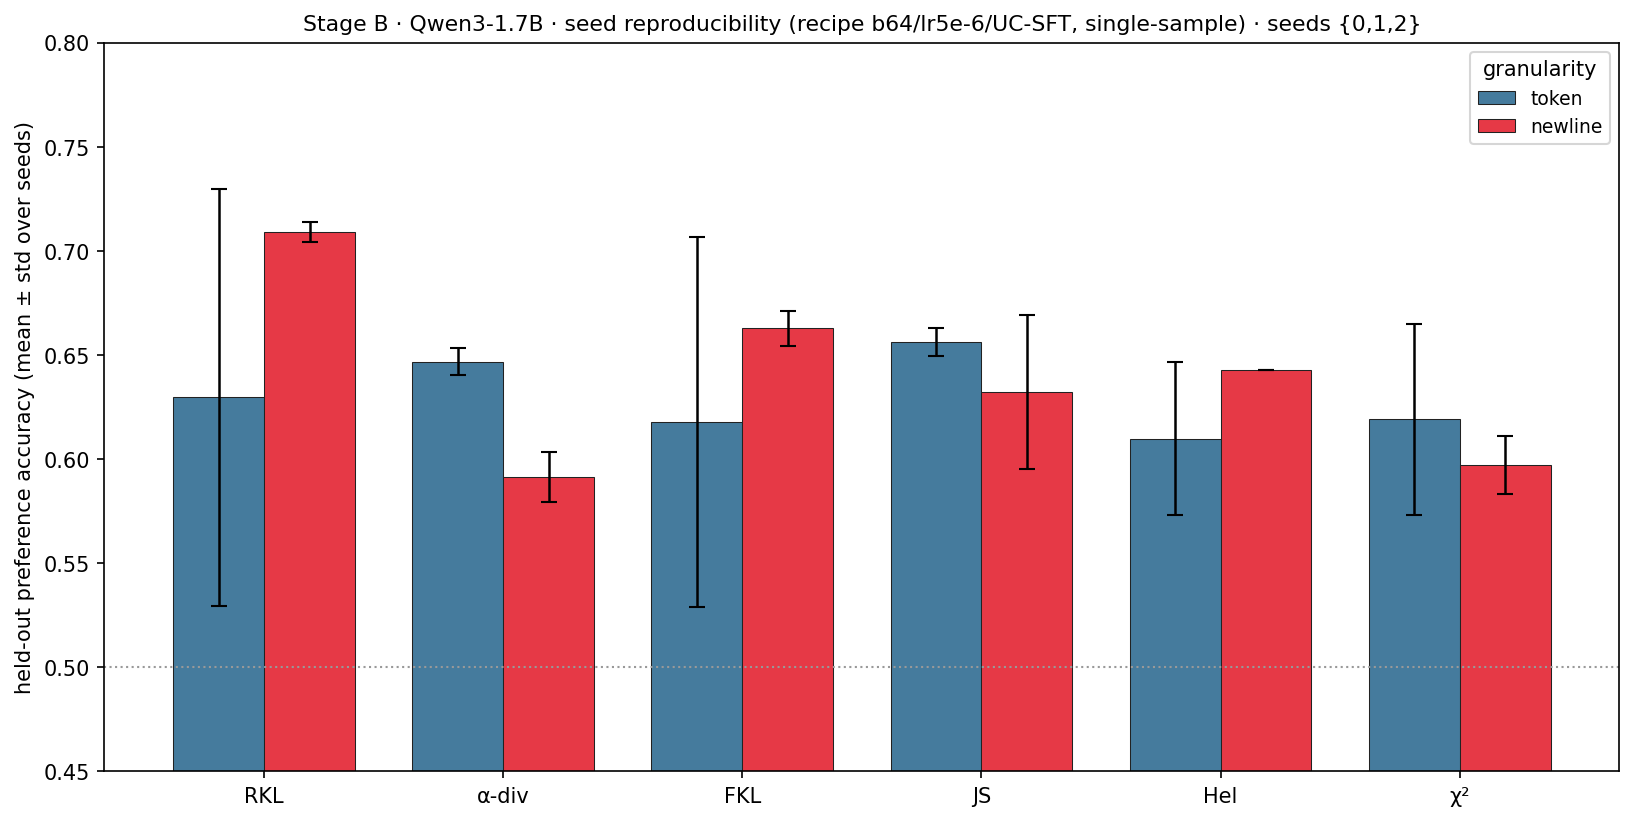
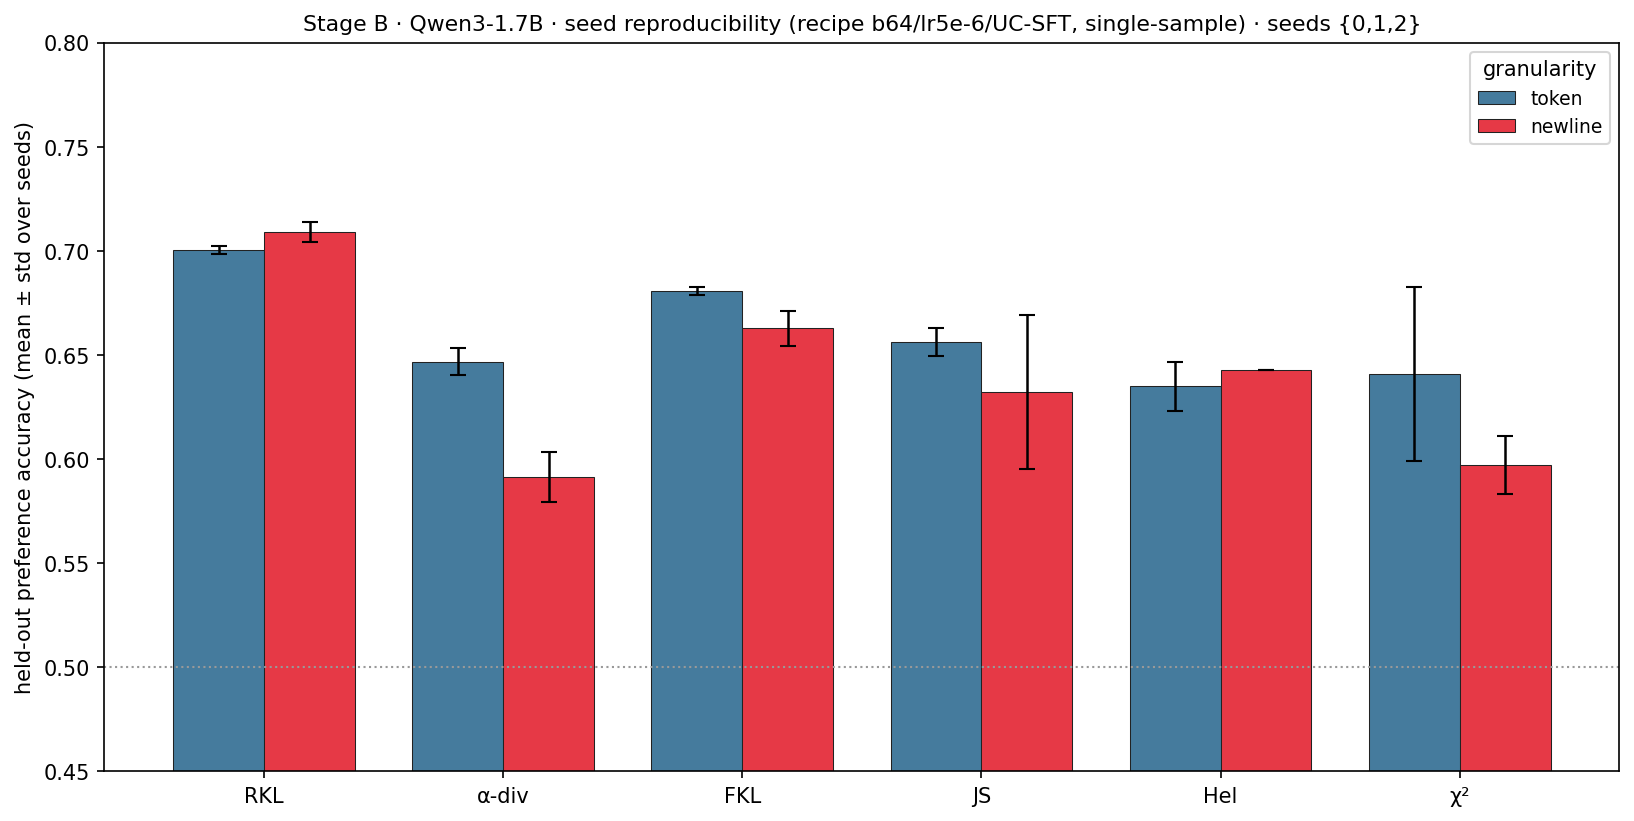
fig_stage_seeds: filter incomplete runs — RKL is fine (token .700±.002, newline .709±.005)
Bugfix: the seed-variance analysis was taking the last eval_acc of every json, including ECC-killed
runs cut short at step 1 (untrained init ≈ chance 0.488/0.492). Those are NOT real results. Added a
completion filter (final step >= 0.9×total). Corrected: RKL is top & tight at BOTH granularities
(token 0.700±0.002, newline 0.709±0.005); no token collapse. seed-2 remainder re-running for full n=3.

diff --git a/llm/fig_stage_seeds.py b/llm/fig_stage_seeds.py
@@ -19,7 +19,10 @@ DIVS = ["kl", "adiv", "rkl", "js", "hel", "chi2"]
 def _le(f):
     if not os.path.exists(f):
         return None
-    h = json.load(open(f))["history"]; e = [x for x in h if "eval_acc" in x]
+    d = json.load(open(f)); h = d["history"]; tot = d["args"].get("steps", 1)
+    if not h or h[-1]["step"] < 0.9 * tot:      # DROP incomplete/cut-short runs (e.g. ECC-killed at step 1)
+        return None
+    e = [x for x in h if "eval_acc" in x]
     return e[-1]["eval_acc"] if e else None
 
 
